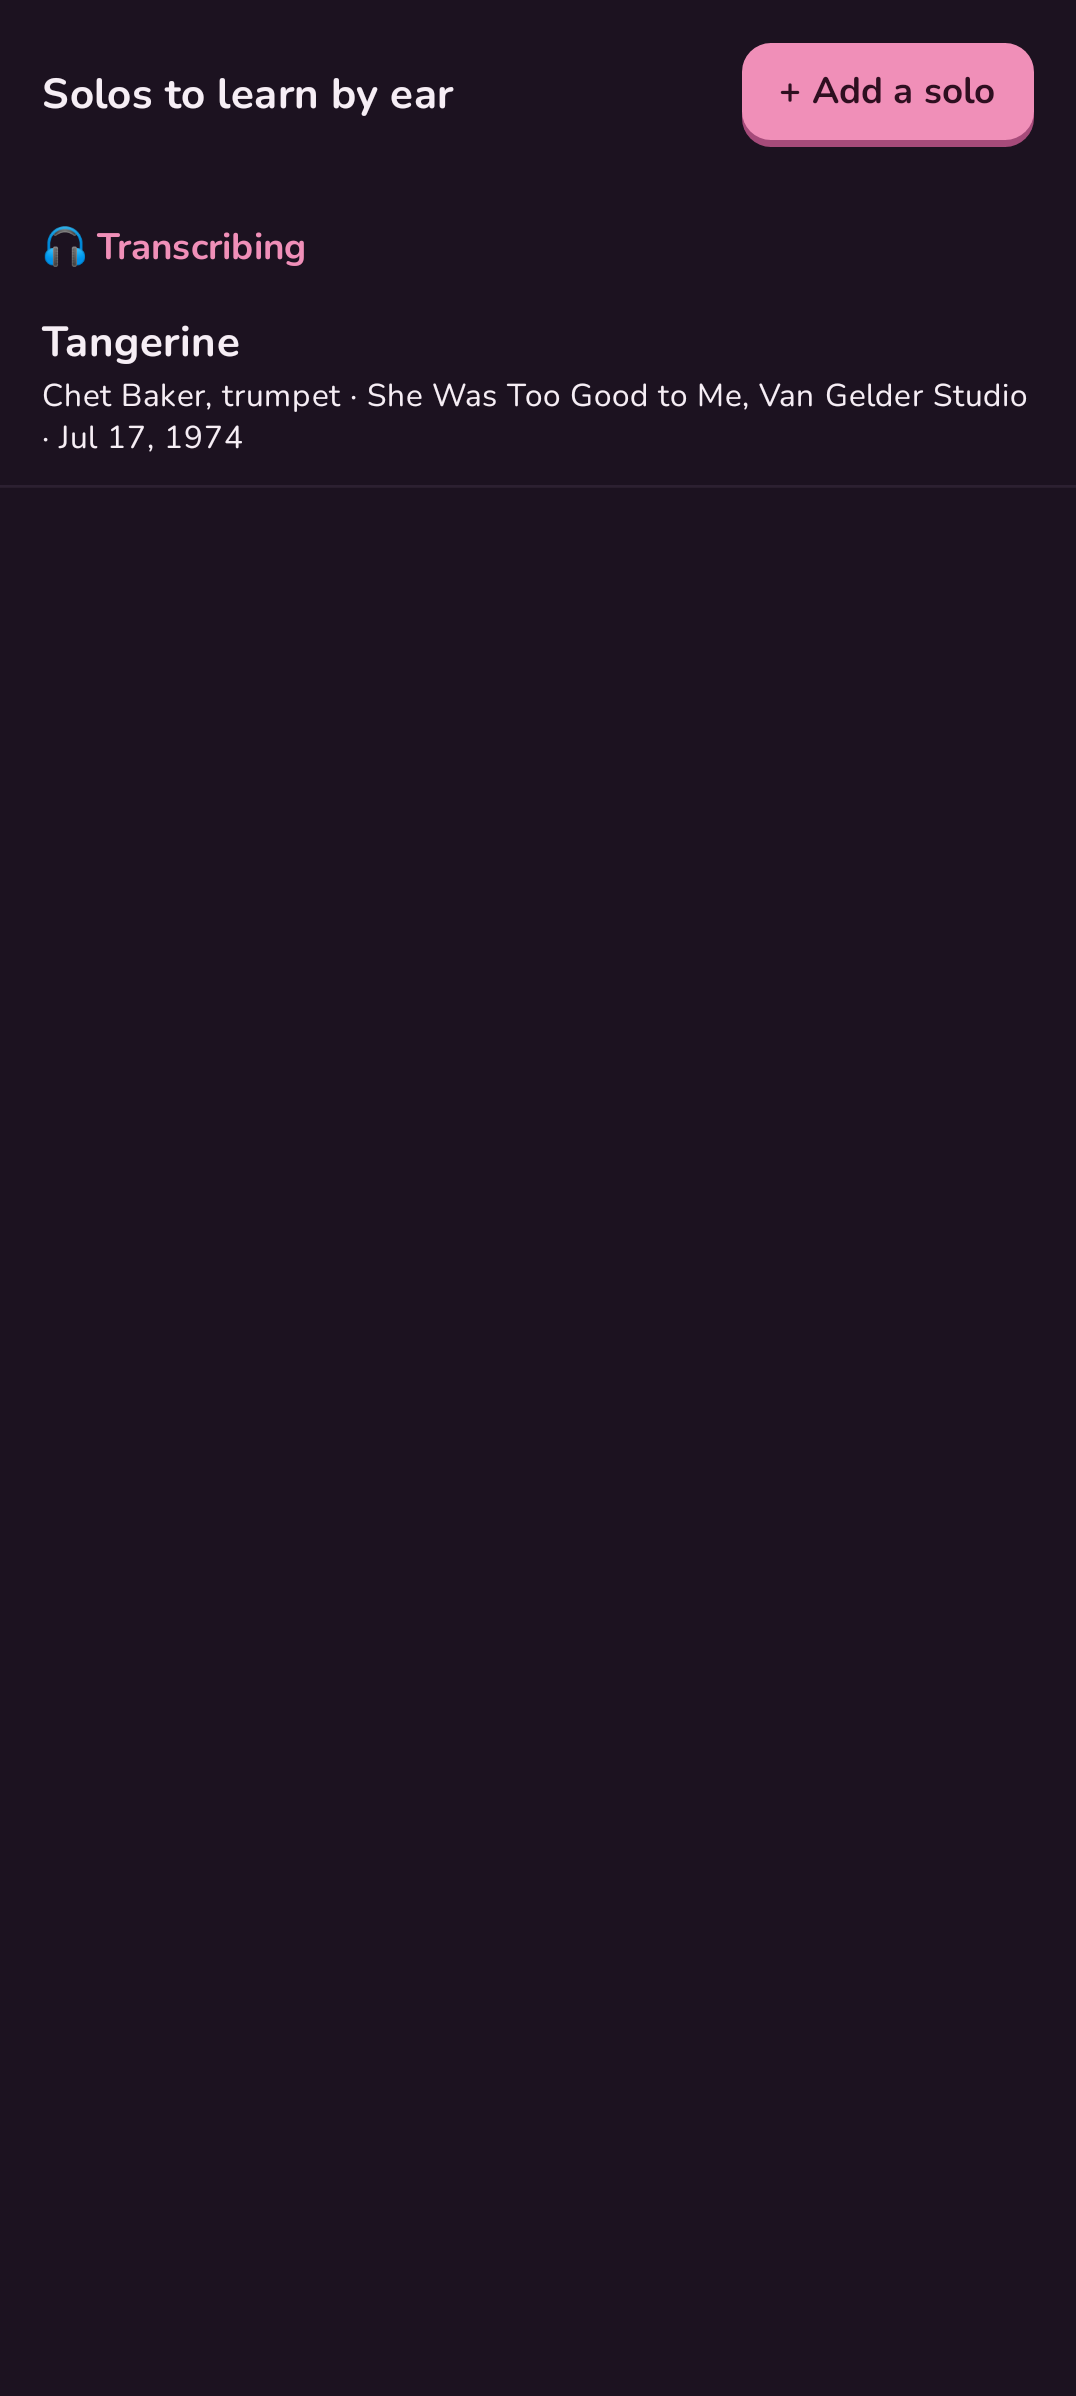
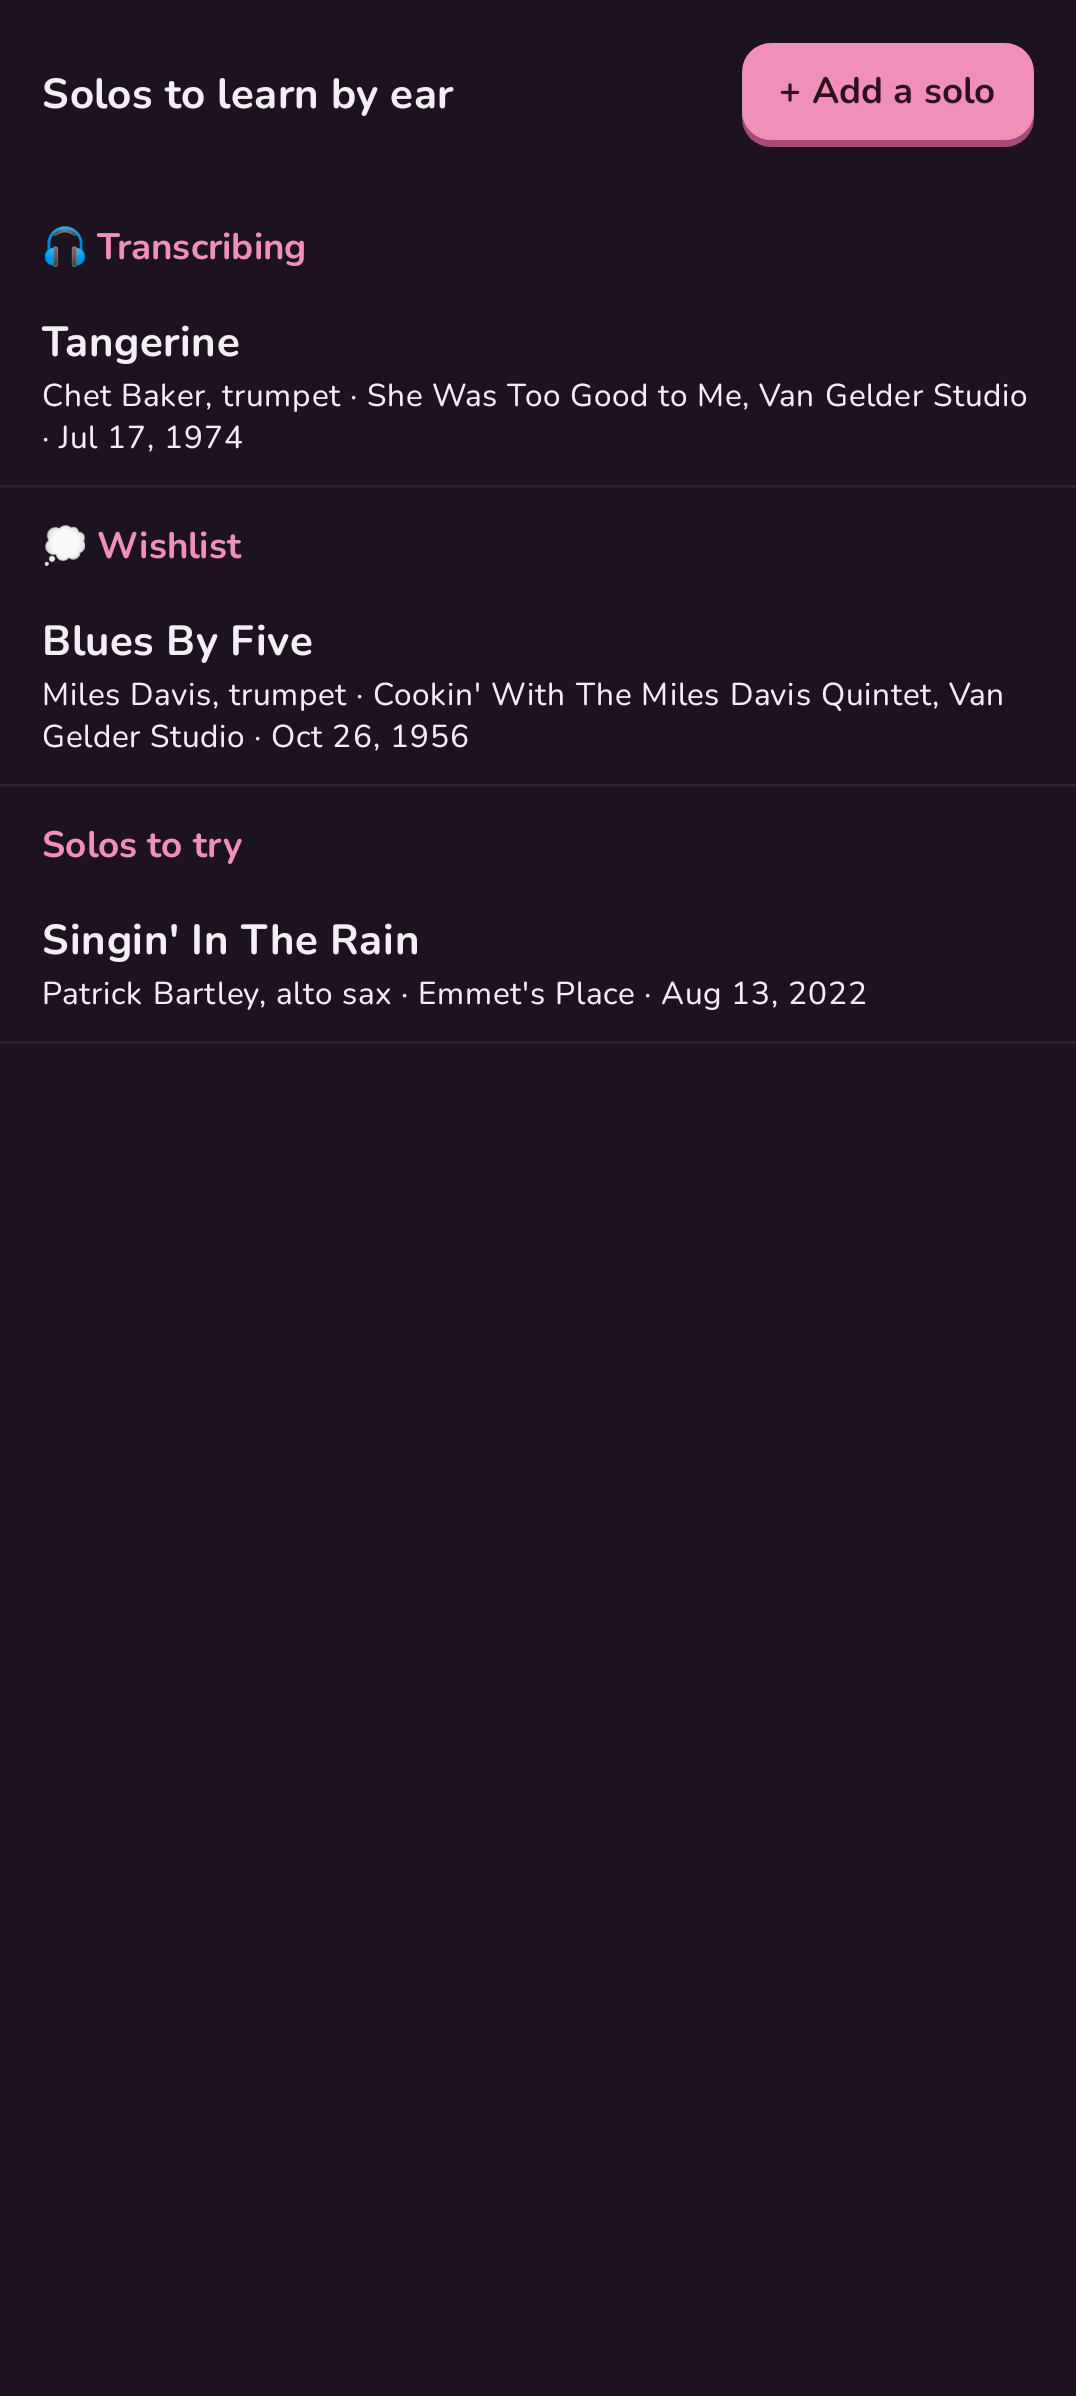
feat(app): add the google play listing, graphics and console answers

diff --git a/app/src/test/java/com/larakelley/woodshed/screenshots/ScreenshotTest.kt b/app/src/test/java/com/larakelley/woodshed/screenshots/ScreenshotTest.kt
@@ -62,17 +62,30 @@ class ScreenshotTest(private val mode: String) {
   companion object {
     @JvmStatic
     @ParameterizedRobolectricTestRunner.Parameters(name = "{0}")
-    fun modes() = listOf(arrayOf("light"), arrayOf("dark"))
+    fun modes() = listOf(arrayOf("light"), arrayOf("dark"), arrayOf("play"))
+
+    /** The Play listing's screenshots, in the order the store shows them. */
+    private val PLAY_ORDER = listOf("session-setup", "plan-review", "session-step", "solos", "drone", "tuner", "metronome")
   }
 
   private fun capture(name: String, content: @Composable () -> Unit) {
-    // The theme follows the system's night mode, as it does in the app.
-    if (mode == "dark") RuntimeEnvironment.setQualifiers("+night")
+    // The theme follows the system's night mode, as it does in the app. The Play set is dark on a 9:16, 1080 x 1920
+    // phone, since Play refuses screenshots more than twice as tall as they are wide.
+    when (mode) {
+      "dark" -> RuntimeEnvironment.setQualifiers("+night")
+      "play" -> RuntimeEnvironment.setQualifiers("+w411dp-h731dp-night-420dpi")
+    }
     compose.mainClock.autoAdvance = false
     // The app draws its background on a Surface behind every tab, so the screens are shot on one too.
     compose.setContent { WoodshedTheme { Surface(color = MaterialTheme.colorScheme.background) { content() } } }
     compose.mainClock.advanceTimeBy(1_000)
-    compose.onRoot().captureRoboImage("src/test/screenshots/$name-$mode.png")
+    val path =
+      if (mode == "play") {
+        "src/main/play/listings/en-US/graphics/phone-screenshots/${PLAY_ORDER.indexOf(name) + 1}-$name.png"
+      } else {
+        "src/test/screenshots/$name-$mode.png"
+      }
+    compose.onRoot().captureRoboImage(path)
   }
 
   private val solo =
@@ -137,7 +150,32 @@ class ScreenshotTest(private val mode: String) {
 
   @Test
   fun solos() = capture("solos") {
-    TranscribeScreen(TranscribeUi(listOf(SoloRow(solo, TranscriptionStateEntity(1, TranscriptionStatus.ACTIVE))), Transposition.Bb), SoloActions())
+    val bartley =
+      solo.copy(
+        id = 2,
+        slug = "singin-in-the-rain-patrick-bartley",
+        title = "Singin' In The Rain",
+        soloist = "Patrick Bartley",
+        instrument = "Alto sax",
+        context = "Emmet's Place",
+        recorded = "2022-08-13",
+      )
+    val miles =
+      solo.copy(
+        id = 3,
+        slug = "blues-by-five-miles-davis",
+        title = "Blues By Five",
+        soloist = "Miles Davis",
+        context = "Cookin' With The Miles Davis Quintet, Van Gelder Studio",
+        recorded = "1956-10-26",
+      )
+    val rows =
+      listOf(
+        SoloRow(solo, TranscriptionStateEntity(1, TranscriptionStatus.ACTIVE)),
+        SoloRow(miles, TranscriptionStateEntity(3, TranscriptionStatus.WISHLIST)),
+        SoloRow(bartley, null),
+      )
+    TranscribeScreen(TranscribeUi(rows, Transposition.Bb), SoloActions())
   }
 
   @Test

diff --git a/tools/play/feature.html b/tools/play/feature.html
@@ -1,0 +1,23 @@
+<!doctype html>
+<!-- Play's 1024 x 500 feature graphic, in the app's dark Callie theme. -->
+<html><head><meta charset="utf-8"><style>
+  @font-face { font-family: "Fraunces"; src: url("../../www/fonts/Fraunces-Variable.ttf"); font-weight: 100 900; }
+  @font-face { font-family: "Nunito"; src: url("../../www/fonts/Nunito-Variable.ttf"); font-weight: 200 1000; }
+  html, body { margin: 0; width: 1024px; height: 500px; }
+  body {
+    background: radial-gradient(circle at 78% 40%, #3a2530 0, #1c1220 62%);
+    color: #f6eef5; font-family: "Nunito", sans-serif;
+    display: flex; align-items: center; gap: 56px; padding: 0 88px; box-sizing: border-box;
+  }
+  img { width: 230px; height: 230px; flex: none; filter: drop-shadow(0 18px 30px rgba(0, 0, 0, 0.45)); }
+  h1 { font-family: "Fraunces", serif; font-weight: 700; font-size: 76px; line-height: 1.05; margin: 0 0 18px; letter-spacing: -0.01em; }
+  h1 em { font-style: normal; color: #f08fb8; }
+  p { margin: 0; font-size: 28px; font-weight: 700; color: #c9b7c6; }
+</style></head>
+<body>
+  <img src="../../www/logo.svg" alt="">
+  <div>
+    <h1>Time to hit <em>the&nbsp;shed</em>.</h1>
+    <p>Standards, sessions, a tuner and a drone.</p>
+  </div>
+</body></html>

diff --git a/tools/play/icon.html b/tools/play/icon.html
@@ -1,0 +1,8 @@
+<!doctype html>
+<!-- Play's 512 x 512 store icon: the launcher icon's cream background and log, square, since Play rounds it. -->
+<html><head><meta charset="utf-8"><style>
+  html, body { margin: 0; width: 512px; height: 512px; background: #fbf3ea; }
+  body { display: grid; place-items: center; }
+  img { width: 360px; height: 360px; }
+</style></head>
+<body><img src="../../www/logo.svg" alt=""></body></html>

diff --git a/PLAY.md b/PLAY.md
@@ -1,0 +1,91 @@
+# Google Play
+
+What to enter in Play Console for Woodshed, kept here so the answers stay true to the app. The store listing's
+text and graphics live in `app/src/main/play/`, laid out for Gradle Play Publisher; the phone screenshots come
+from the screenshot tests (`make record-screenshots` rewrites them), and `tools/play/render.sh` renders the icon
+and feature graphic.
+
+Update this file when the app starts doing something these answers do not cover, such as collecting data,
+showing ads or adding a permission.
+
+## App setup
+
+| Field | Answer |
+| --- | --- |
+| App name | Woodshed |
+| Default language | English (United States) |
+| App or game | App |
+| Free or paid | Free (permanent) |
+| Category | Music & Audio |
+| Tags | Music, Education |
+| Contact email | hello@woodshedapp.org |
+| Website | https://woodshedapp.org |
+| Privacy policy | https://woodshedapp.org/privacy.html |
+
+## App content
+
+**App access:** all functionality is available without special access. There is no sign-in.
+
+**Ads:** no, the app contains no ads.
+
+**Content rating** (the IARC questionnaire): category *All Other App Types* (it is a practice tool, not a game
+or social app). Answer no to violence, sexual content, profanity, drugs, gambling and fear. Users cannot
+interact with or share content with other users in the app, and it does not share the user's location. It has
+no purchases. Expect a rating of Everyone / PEGI 3.
+
+**Target audience:** 13 and older (the 13-15, 16-17 and 18+ groups). Choosing under 13 brings the Families
+policy's extra requirements, which the app is not built for. The app is not designed for children.
+
+**News app:** no. **Government app:** no. **Financial features:** none. **Health:** none.
+
+## Data safety
+
+Woodshed keeps everything on the phone. Only a problem report the user chooses to send leaves it, through the
+report service (a Cloudflare Worker) to a public GitHub issue.
+
+- **Does the app collect or share user data?** Yes, because of problem reports.
+- **Is all collected data encrypted in transit?** Yes (HTTPS).
+- **Can users request deletion?** Yes: ask at hello@woodshedapp.org, or close the issue on GitHub.
+
+Data types to declare:
+
+| Data type | Collected | Shared | Optional | Purpose |
+| --- | --- | --- | --- | --- |
+| App activity: other user-generated content (the report's note) | Yes | No | Yes | App functionality (support) |
+| App info and performance: other app performance data (app and Android versions in a report) | Yes | No | Yes | App functionality (support) |
+
+Not shared, because each report is a transfer the user starts and expects, which Play excludes from sharing.
+Not collected: location, personal info, contacts, files, photos, audio (the tuner reads the microphone on the
+phone and keeps nothing), health, financial info, messages, identifiers and device IDs. The IP address the
+report service sees for rate limiting is processed ephemerally and not declared.
+
+To check before submitting: whether Play treats YouTube and Vimeo videos loaded in a WebView, after the user
+taps play, as data collection by the app. As written, the app sends nothing to them itself; the services
+receive what any website they serve receives.
+
+## Permissions and declarations
+
+- **Foreground service (special use):** Play asks what it is for. Answer: "A practice session timer. While a
+  session runs, the service shows the current block and its time left in a notification with Done, Pause and
+  End, alerts when a block's time is up, and keeps the metronome and drone playing with the screen off. It
+  runs only while the user has a session going and stops when it ends." Play may ask for a short video: record
+  starting a session, locking the phone, and the notification counting down.
+- **Microphone (RECORD_AUDIO):** no declaration form; the store listing and privacy policy say the tuner uses
+  it on the device only.
+- **Notifications:** no declaration.
+
+## Payments policy
+
+The About screen's Ko-fi button asks for a voluntary tip. Google Play's Payments policy generally requires
+Play's billing for in-app payments for digital goods and services, and may treat tips to the developer as one.
+Decide before the first production release: remove the button from the Play build, replace it with Play billing
+tips, or confirm with Google that the link is allowed. The GitHub build can keep it either way.
+
+## Releases
+
+New personal developer accounts must run a closed test with at least 12 testers opted in for 14 days before
+they can apply for production. The first upload to a new app must be made by hand in Play Console; later
+uploads can come from the release workflow.
+
+The release notes for each upload are in `app/src/main/play/release-notes/en-US/default.txt`, kept to Play's
+500 characters.

diff --git a/README.md b/README.md
@@ -79,6 +79,14 @@ whenever `www/` changes on main. Its screenshots are
 copies of the screenshot tests' images in `app/src/test/screenshots`. DNS for the domain, including Resend's
 mail records, is in Route 53.
 
+## Google Play
+
+`PLAY.md` holds what to enter in Play Console, from the content rating to the Data Safety form, and the open
+question about the Ko-fi button. The store listing's text and graphics are in `app/src/main/play/`: the phone
+screenshots are the screenshot tests' `play` set, and `tools/play/render.sh` renders the icon and feature
+graphic. Tagged releases also build a bundle, uploaded to Play's internal testing track once the
+`PLAY_SERVICE_ACCOUNT_JSON` secret exists.
+
 ## Report service
 
 `worker/` is a Cloudflare Worker that files problem reports from the app as GitHub issues, signed in as the
